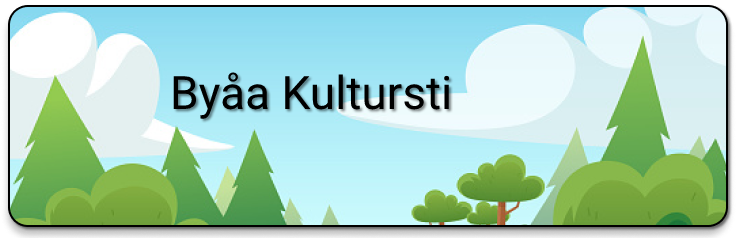
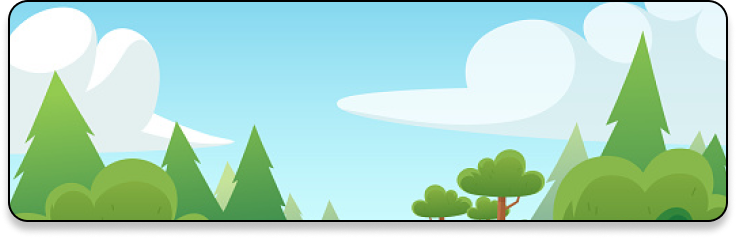
Homepage with only css

diff --git a/screens/Home.tsx b/screens/Home.tsx
@@ -1,69 +1,135 @@
-import { StyleSheet, Image, Platform, Pressable } from 'react-native';
+import {StyleSheet, Image, Platform, Pressable, ImageBackground} from 'react-native';
 
 import EditScreenInfo from '../components/EditScreenInfo';
 import { Text, View } from '../components/Themed';
 import { RootTabScreenProps } from '../types';
 
+
+
 export default function Home({ navigation }: RootTabScreenProps<'TabOne'>) {
   return (
-    <View style={styles.container}>
-      <Image style={styles.image}  source={require("../res/images/landing-picture.png")} />
-      <Image style={styles.text}  source={require("../res/images/text2.png")} />
+      <View style={styles.container}>
 
-      <Pressable style={styles.button} onPress={ () => alert("Spill som gjest")}>
-        <Text>Spill som gjest</Text>
-      </Pressable>
+          <ImageBackground style={styles.introBox} source={require("../res/images/landing-picture.png")}>
+              <Text style={styles.textOnBackground}>Byåa Kultursti</Text>
+          </ImageBackground>
 
-      <Pressable style={styles.button} onPress={ () => alert("Login")}>
-        <Text>Logg inn</Text>
-      </Pressable>
+          <Image style={styles.cloudLeft} source={require("../res/images/cloud.png")}/>
 
-      <Pressable style={styles.button} onPress={ () => alert("Register")}>
-        <Text>Registrer</Text>
-      </Pressable>
-    </View>
+          <Image style={styles.cloudRight} source={require("../res/images/cloud.png")}/>
+
+          <View style={styles.textBox}>
+              <Text style={styles.text}>Velkommen til Byåa Kultursti,{'\n'}her kan du samle poeng ved å{'\n'}svare på
+                  spørsmål om Byåa og konkurrere med vennene dine.{'\n'}Er du den beste i klassen din?</Text>
+          </View>
+
+          <View style={styles.buttonFlex}>
+              <Pressable style={styles.button} onPress={ () => alert("Spill som gjest")}>
+                  <Text>Spill som gjest</Text>
+              </Pressable>
+
+              <Pressable style={styles.button} onPress={ () => alert("Login")}>
+                  <Text>Logg inn</Text>
+              </Pressable>
+
+              <Pressable style={styles.button} onPress={ () => alert("Register")}>
+                  <Text>Registrer</Text>
+              </Pressable>
+
+          </View>
+
+      </View>
   );
 }
 
-
-
 const styles = StyleSheet.create({
   container: {
-    backgroundColor: '#FBF4E6',
-    flex: 1,
-    alignItems: 'center',
-    justifyContent: 'center',
+      backgroundColor: "#FBF4E6",
+      flex: 1,
+      flexDirection: "column",
+      justifyContent: "center",
+      alignItems: "center",
 
   },
-  title: {
-    fontSize: 15,
-    backgroundColor: '#FFCB2F',
-    height: Platform.OS === "web" ? 155 : 120,
-    width: Platform.OS === "web" ? 600 : 274,
-    borderRadius: 13,
-    borderWidth: 2,
-    paddingLeft: 15,
-    paddingTop: 30,
-    overflow: 'hidden',
-  },
-  text: {
-    height: Platform.OS === "web" ? 243 :  188,
-    width: Platform.OS === "web" ? 405 : 315,
-    marginLeft:9,
-    marginTop: Platform.OS === "web" ? 19 : 4,
-    margin: 0,
+    buttonFlex: {
+        backgroundColor: "#FBF4E6",
+        flexDirection: "column",
+        justifyContent: "center",
+        alignItems: "center",
+        top: 15
   },
   button: {
-    backgroundColor: "#F5BFB6",
-    marginTop: Platform.OS === "web" ? 5 : 4,
-    borderWidth:1,
-    borderRadius:6,
+      backgroundColor: "#F5BFB6",
+      marginTop: 5,
+      borderWidth:1,
+      borderRadius:6,
+      padding: 3,
+  },
+    introBox: {
+        //position: "absolute",
+        width: 278,
+        height: 90,
+        top: -40,
+        display: "flex",
+        alignContent: "center",
+        justifyContent: "center",
 
-  }
-  ,
-    image: {
-      marginTop: Platform.OS === "web" ? 0 : 20,
-        height: Platform.OS === "web" ? 115 :  89,
-        width: Platform.OS === "web" ? 350 : 278,
+        shadowColor: "#000000",
+        shadowOffset: {width: 0, height: 4},
+        shadowOpacity: 0.5,
+        shadowRadius: 4,
+    },
+    textOnBackground: {
+        //fontFamily: 'Roboto-Regular',
+        fontStyle: "normal",
+        fontWeight: "400",
+        fontSize: 24,
+        lineHeight: 28,
+        paddingLeft: 32,
+        paddingBottom: 33,
+
+        shadowColor: "#000000",
+        shadowOffset: {width: 0, height: 4},
+        shadowOpacity: 0.5,
+        shadowRadius: 4,
+    },
+    cloudLeft:{
+        position: "absolute",
+        zIndex:1,
+        width: 108,
+        height: 46,
+        left: 25,
+        top: 129,
+    },
+    cloudRight: {
+        position: "absolute",
+        zIndex:1,
+        width: 108,
+        height: 46,
+        left: 190,
+        top: 129,
+    },
+    textBox: {
+        resizeMode: "cover",
+        backgroundColor: "#FFCB2F",
+        borderRadius: 10,
+        borderColor: "#000000",
+        borderWidth: 1,
+
+        shadowColor: "#000000",
+        shadowOffset: {width: 0, height: 4},
+        shadowOpacity: 0.5,
+        shadowRadius: 4,
+    },
+    text: {
+        //fontFamily: 'Roboto-Regular',
+        fontStyle: "normal",
+        fontWeight: "400",
+        fontSize: 18,
+        padding: 11,
+        shadowColor: "#000000",
+        shadowOffset: {width: 0, height: 4},
+        shadowOpacity: 0.3,
+        shadowRadius: 4,
     }
 });

diff --git a/screens/Facts.tsx b/screens/Facts.tsx
@@ -77,8 +77,6 @@ export function FactsScreen(){
 }
 
 
-
-
 export function FactsScree2(){
 
 
